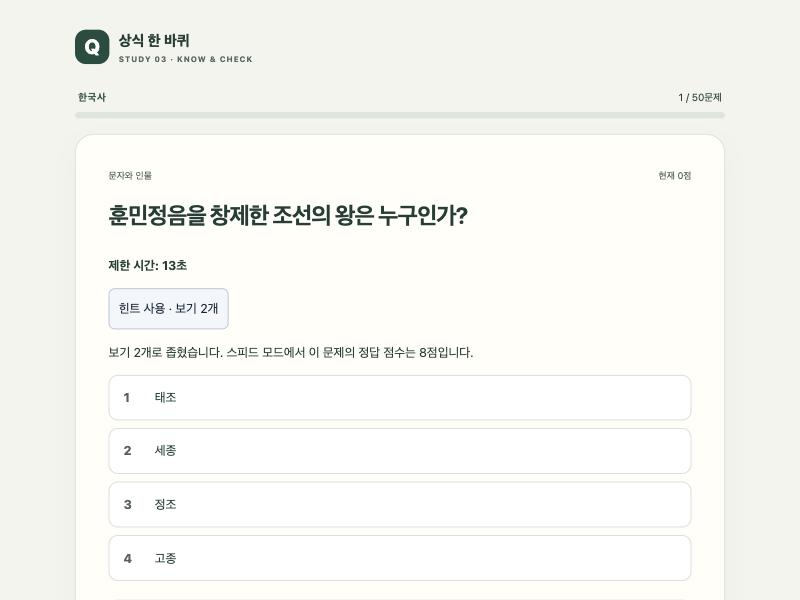
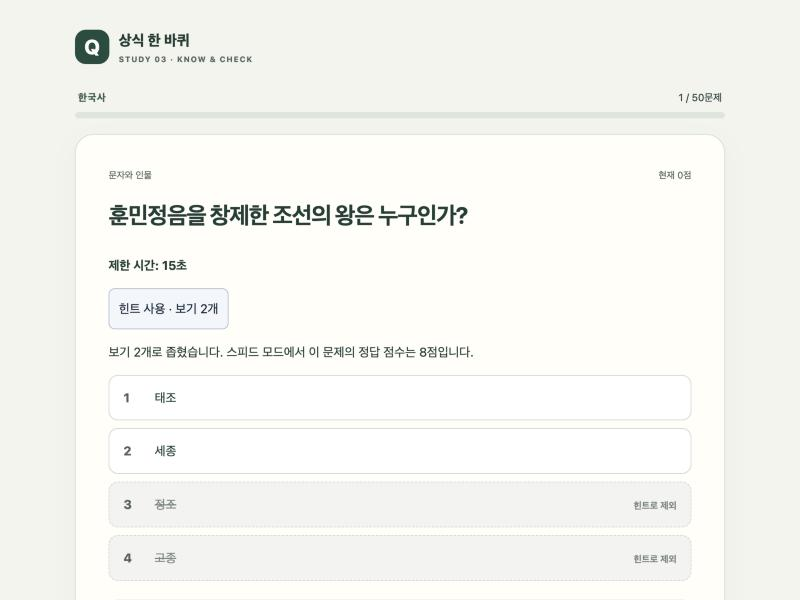
fix(study-03): show which options a hint eliminated
Hint-disabled options now get a dashed, struck-through style and a
text label, and the speed-hint screenshot shows the new look.

diff --git a/Study-03/styles.css b/Study-03/styles.css
@@ -37,6 +37,8 @@ progress::-moz-progress-bar { background: #386148; }
 .option.correct { background: #eaf3e8; border-color: #32613d; }
 .option.wrong { background: #fff0ea; border-color: #a65135; }
 .option:disabled { opacity: 1; }
+.option.eliminated { background: #f3f4f1; border-style: dashed; color: #7a857e; }
+.option.eliminated > span:nth-child(2) { text-decoration: line-through; }
 .answer-tag { font-size: 12px; margin-left: auto; flex-shrink: 0; font-weight: 650; }
 #feedback:empty { display: none; }
 #feedback { background: #f2f5ed; border-radius: 12px; margin-top: 20px; padding: 18px; overflow-wrap: anywhere; }

diff --git a/Study-03/quiz.js b/Study-03/quiz.js
@@ -182,6 +182,10 @@ if (typeof document !== "undefined") {
         button.disabled = index !== question.answer_index && index !== wrong;
       }
       button.append(make("span", index + 1, "option-number"), make("span", option));
+      if (!answered && button.disabled) {
+        button.classList.add("eliminated");
+        button.append(make("span", "힌트로 제외", "answer-tag"));
+      }
       if (answered && index === question.answer_index) {
         button.classList.add("correct");
         button.append(make("span", index === selected ? "선택 · 정답" : "정답", "answer-tag"));

diff --git a/Study-03/SCREENSHOTS.md b/Study-03/SCREENSHOTS.md
@@ -44,7 +44,7 @@
 
 ### 4. 스피드 모드 · 힌트
 
-문제당 15초 타이머가 돌고, 힌트를 쓰면 오답 보기 2개가 비활성화됩니다.
+문제당 15초 타이머가 돌고, 힌트를 쓰면 오답 보기 2개가 점선·취소선과 "힌트로 제외" 표시로 비활성화됩니다.
 
 ![스피드 모드와 힌트](screenshots/04_speed_hint.jpg)
 
